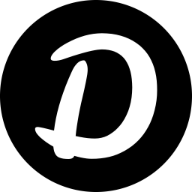
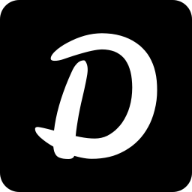
Add files via upload

diff --git a/index.html b/index.html
@@ -9,19 +9,19 @@
     <link
       rel="apple-touch-icon"
       sizes="180x180"
-      href="favicon/apple-touch-icon.png"
+      href="favicon1/apple-touch-icon.png"
     />
     <link
       rel="icon"
       type="image/png"
       sizes="32x32"
-      href="favicon/favicon-32x32.png"
+      href="favicon1/favicon-32x32.png"
     />
     <link
       rel="icon"
       type="image/png"
       sizes="16x16"
-      href="favicon/favicon-16x16.png"
+      href="favicon1/favicon-16x16.png"
     />
     <link rel="manifest" href="/site.webmanifest" />
   </head>
